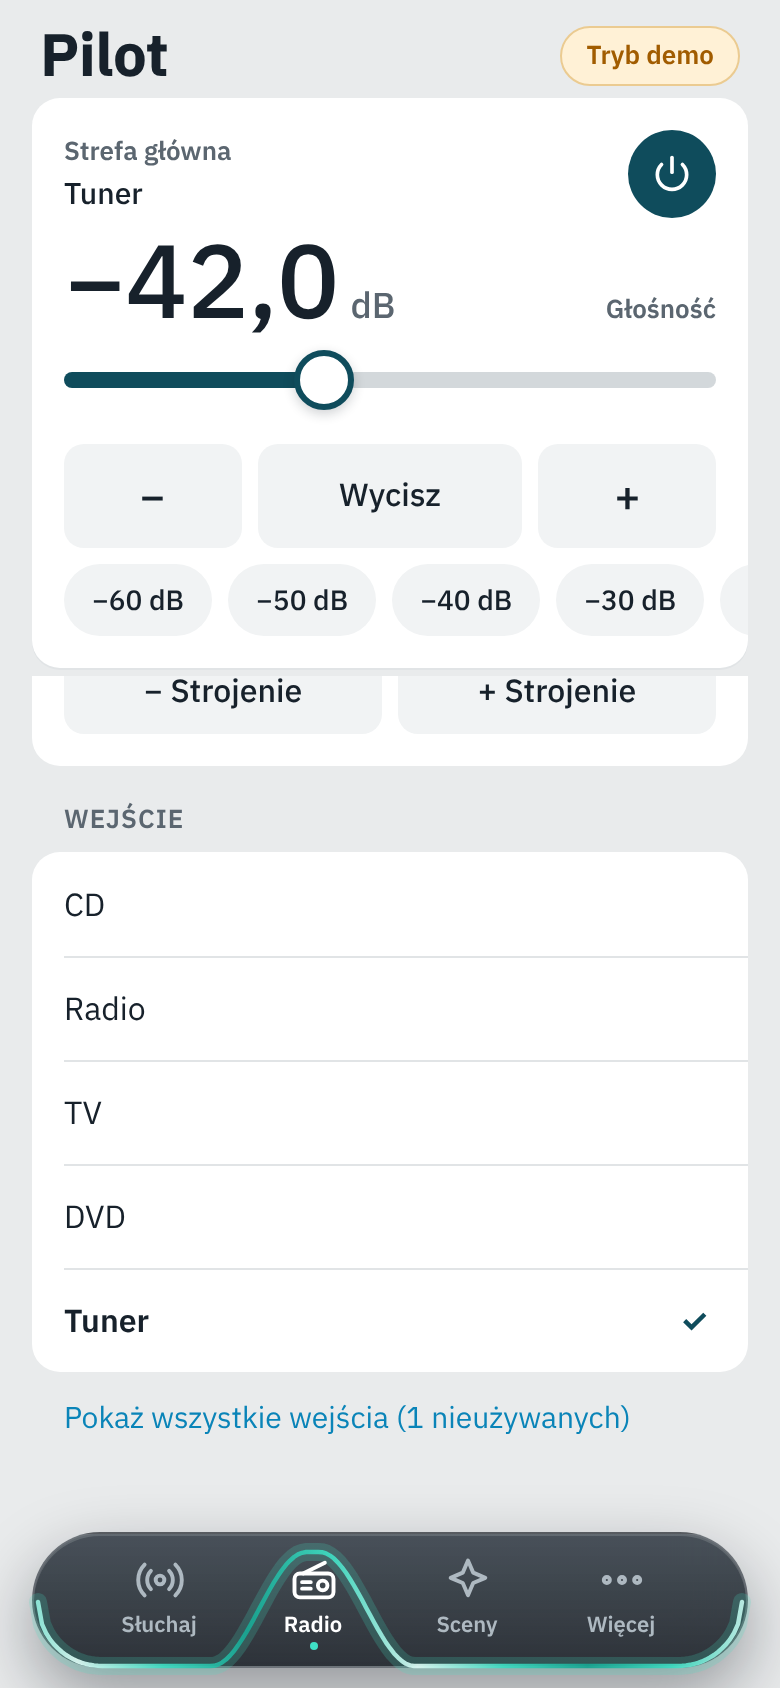
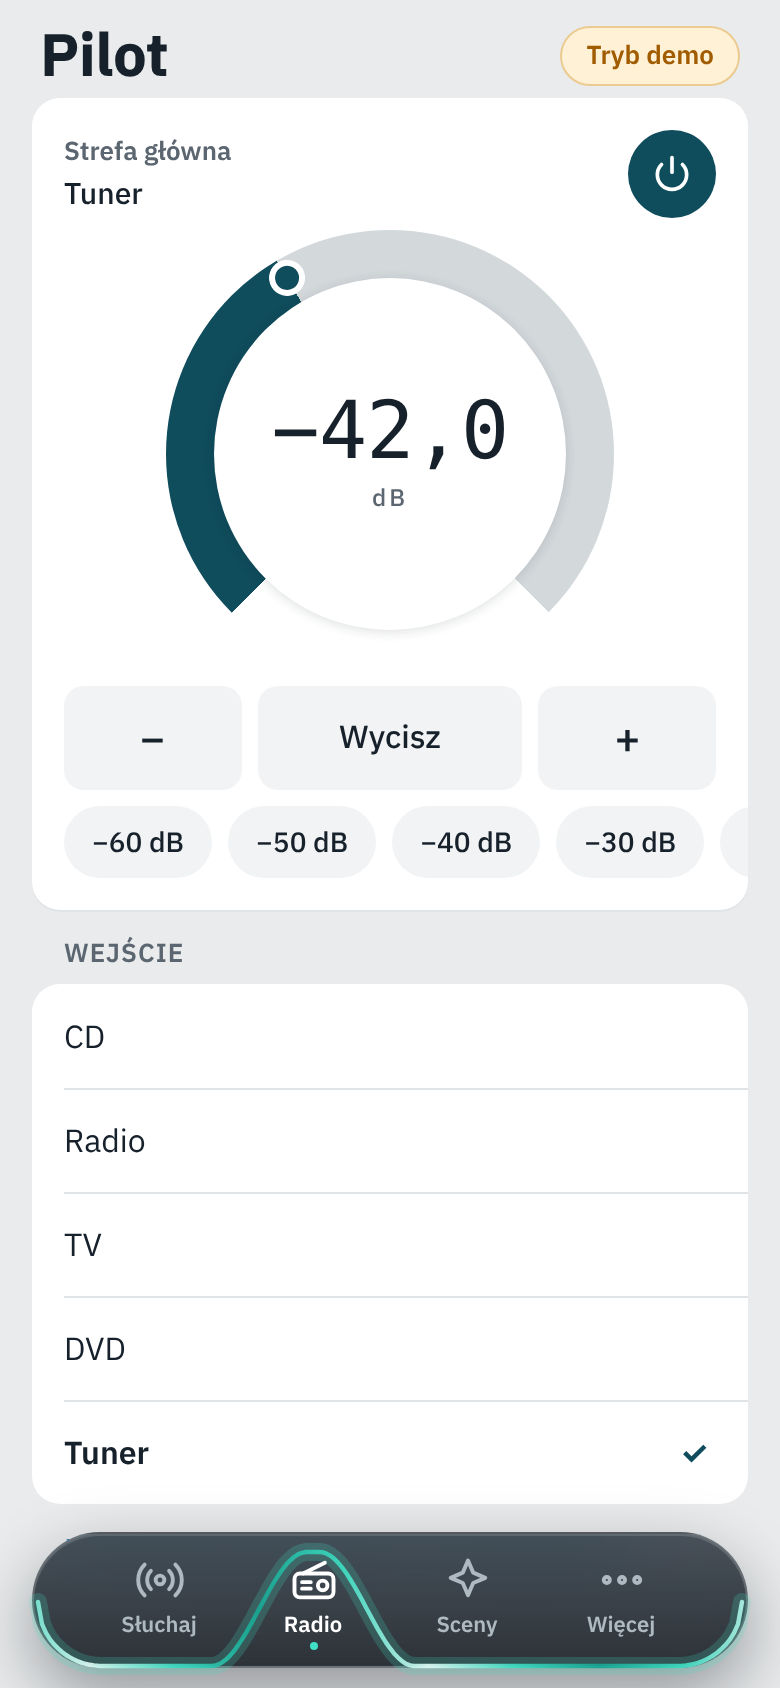
v2.2.0: gałka głośności i klawisze wejść
Claude-Session: https://claude.ai/code/session_01A6aXtetXgrsJii8K5k7Ukp

diff --git a/index.html b/index.html
@@ -64,6 +64,26 @@ input[type=range]::-moz-range-track{height:8px;border-radius:4px;background:var(
 input[type=range]::-moz-range-progress{height:8px;border-radius:4px;background:var(--primary)}
 input[type=range]::-webkit-slider-thumb{-webkit-appearance:none;width:30px;height:30px;border-radius:50%;background:#fff;border:3px solid var(--primary);margin-top:-11px;box-shadow:0 2px 6px rgba(23,33,43,.2)}
 input[type=range]::-moz-range-thumb{width:24px;height:24px;border-radius:50%;background:#fff;border:3px solid var(--primary)}
+/* gałka głośności (układ "Pokrętło") */
+.knob{position:relative;width:224px;height:224px;margin:6px auto 4px;touch-action:none;user-select:none;-webkit-user-select:none;--p:.5;outline:0}
+.knob .ring{position:absolute;inset:0;border-radius:50%;background:conic-gradient(from 225deg,var(--primary) 0 calc(var(--p)*75%),var(--border) calc(var(--p)*75%) 75%,transparent 75% 100%)}
+.knob .face{position:absolute;inset:24px;border-radius:50%;background:var(--surface);box-shadow:0 1px 6px rgba(23,33,43,.14);display:grid;place-items:center;text-align:center}
+.knob .hd{position:absolute;inset:0;pointer-events:none;transform:rotate(calc(var(--p)*270deg - 135deg))}
+.knob .hd span{position:absolute;left:50%;top:4px;width:12px;height:12px;margin-left:-6px;border-radius:50%;background:var(--primary);box-shadow:0 0 0 3px #fff}
+.knob:focus-visible .ring{box-shadow:0 0 0 3px var(--focus)}
+.knob .vol{display:block;margin:0}
+.knob .vol .n{display:block;font-size:40px;font-family:ui-monospace,SFMono-Regular,Menlo,Consolas,monospace;line-height:1}
+.knob .vol .u{display:block;margin-top:4px;font-size:12px;letter-spacing:.12em}
+.knob .vol .lbl{display:none}
+.knob .vol .m{margin:6px 0 0;font-size:11px}
+.knob input[type=range]{position:absolute;opacity:0;pointer-events:none;width:1px;height:1px}
+.list.keys{display:grid;grid-template-columns:1fr 1fr;gap:8px;background:none;overflow:visible;border-radius:0}
+.keys .li{min-height:56px;padding:0 14px;gap:10px;border-radius:16px;background:var(--surface);box-shadow:inset 0 0 0 1px var(--sep);width:auto}
+.keys .li::before{display:none!important}
+.keys .li::after{content:"";order:-1;width:8px;height:8px;border-radius:50%;background:var(--border);flex:none}
+.keys .li.on{box-shadow:inset 0 0 0 1.5px var(--primary)}
+.keys .li.on::after{background:var(--primary);box-shadow:0 0 6px rgba(15,76,92,.55)}
+.keys .li .ck{display:none}
 .vrow{display:grid;grid-template-columns:1fr 1.5fr 1fr;gap:8px;margin:4px 0 8px}
 .btn{min-height:44px;padding:0 16px;border-radius:var(--radius-s);border:0;background:var(--soft);font-weight:500;display:inline-flex;align-items:center;justify-content:center;gap:8px;user-select:none;-webkit-user-select:none;-webkit-touch-callout:none;transition:transform .12s,background .15s}
 .btn:active{transform:scale(.97);background:var(--border)}
@@ -137,7 +157,7 @@ dialog p{margin:0 0 14px;color:var(--text2);font-size:15px}
 <div class="pages" id="pages">
   <section class="page" data-page="listen" aria-label="Słuchaj">
     <div class="gh">Wejście</div>
-    <div class="list" data-r="sources" data-z="main"></div>
+    <div class="list keys" data-r="sources" data-z="main"></div>
     <button class="more" data-act="more" data-z="main" hidden></button>
     <div class="gh">Tryb dźwięku</div>
     <div class="list" data-r="surrounds" data-z="main"></div>
@@ -268,8 +288,12 @@ function volBlock(zone) {
     <div class="hhd"><div class="t"><div class="cap">${ZNAME[zone]}</div><div class="sub" data-r="sub" data-z="${zone}">–</div></div>
       <button class="pwr" data-act="power" data-z="${zone}" aria-label="Włącz lub wyłącz: ${ZNAME[zone]}" aria-pressed="false">${ICON.power}</button></div>
     <div class="body">
-      <div class="vol"><span class="n" data-r="vol" data-z="${zone}">–</span><span class="u">dB</span><span class="lbl">Głośność</span><span class="badge warn m">▲ Wyciszone</span></div>
-      <input type="range" min="-80" max="18" step="0.5" value="-60" data-r="slider" data-z="${zone}" aria-label="Głośność: ${ZNAME[zone]}">
+      <div class="knob" data-r="knob" data-z="${zone}" role="slider" tabindex="0" aria-label="Głośność: ${ZNAME[zone]}" aria-valuemin="-80" aria-valuemax="18">
+        <div class="ring"></div>
+        <div class="face"><div class="vol"><span class="n" data-r="vol" data-z="${zone}">–</span><span class="u">dB</span><span class="lbl">Głośność</span><span class="badge warn m">▲ Wyciszone</span></div></div>
+        <div class="hd"><span></span></div>
+        <input type="range" min="-80" max="18" step="0.5" value="-60" data-r="slider" data-z="${zone}" tabindex="-1" aria-hidden="true">
+      </div>
       <div class="vrow">
         <button class="btn step" data-step="-1" data-z="${zone}" aria-label="Ciszej">−</button>
         <button class="btn mute" data-act="mute" data-z="${zone}">Wycisz</button>
@@ -283,7 +307,24 @@ function build() {
   $("#zone2").innerHTML = volBlock("zone2");
   for (const zone of ZONES) {
     const slider = q(zone, "slider");
-    slider._fill = () => slider.style.setProperty("--fill", ((slider.value - slider.min) / (slider.max - slider.min) * 100) + "%");
+    const knob = q(zone, "knob");
+    slider._fill = () => { const p = (slider.value - slider.min) / (slider.max - slider.min); knob.style.setProperty("--p", p); knob.setAttribute("aria-valuenow", slider.value); knob.setAttribute("aria-valuetext", fmtDb(+slider.value) + " dB"); };
+    const setFromPointer = e => {
+      const r = knob.getBoundingClientRect(), dx = e.clientX - (r.left + r.width / 2), dy = e.clientY - (r.top + r.height / 2);
+      let a = Math.atan2(dx, -dy) * 180 / Math.PI;               // 0 = góra, + = zgodnie z zegarem
+      a = Math.max(-135, Math.min(135, a));                       // martwa strefa na dole
+      if (Math.abs(Math.atan2(dx, -dy) * 180 / Math.PI) > 135) a = (dx < 0) ? -135 : 135;
+      const v = Math.round((slider.min * 1 + (a + 135) / 270 * (slider.max - slider.min)) * 2) / 2;
+      if (v !== +slider.value) { slider.value = v; slider.dispatchEvent(new Event("input")); }
+    };
+    let drag = false;
+    knob.addEventListener("pointerdown", e => { drag = true; knob.setPointerCapture(e.pointerId); knob.focus({ preventScroll: true }); setFromPointer(e); });
+    knob.addEventListener("pointermove", e => { if (drag) setFromPointer(e); });
+    for (const ev of ["pointerup", "pointercancel"]) knob.addEventListener(ev, () => { drag = false; });
+    knob.addEventListener("keydown", e => {
+      const k = { ArrowUp: .5, ArrowRight: .5, ArrowDown: -.5, ArrowLeft: -.5, PageUp: 5, PageDown: -5 }[e.key]; if (k == null) return;
+      e.preventDefault(); slider.value = Math.max(-80, Math.min(18, +slider.value + k)); slider.dispatchEvent(new Event("input"));
+    });
     slider.addEventListener("input", () => { touched[zone] = Date.now(); slider._fill(); q(zone, "vol").textContent = fmtDb(+slider.value); queueVolume(zone, +slider.value); });
     for (const b of document.querySelectorAll(`[data-step][data-z="${zone}"]`)) {
       const step = +b.dataset.step; let t1, t2;
@@ -472,7 +513,7 @@ function setMoreView(v) {
 }
 
 // ---------- wersje i aktualizacja (ekran Hi-Fi: updater.js) ----------
-const APP_VERSION = "2.1.3";
+const APP_VERSION = "2.2.0";
 function openUpdate() { if (!$("#pud") || !$("#pud").open) PilotUpdater.open({ test: DEMO, onDone: () => location.reload() }); }
 function busyNow() {
   const a = document.activeElement;
